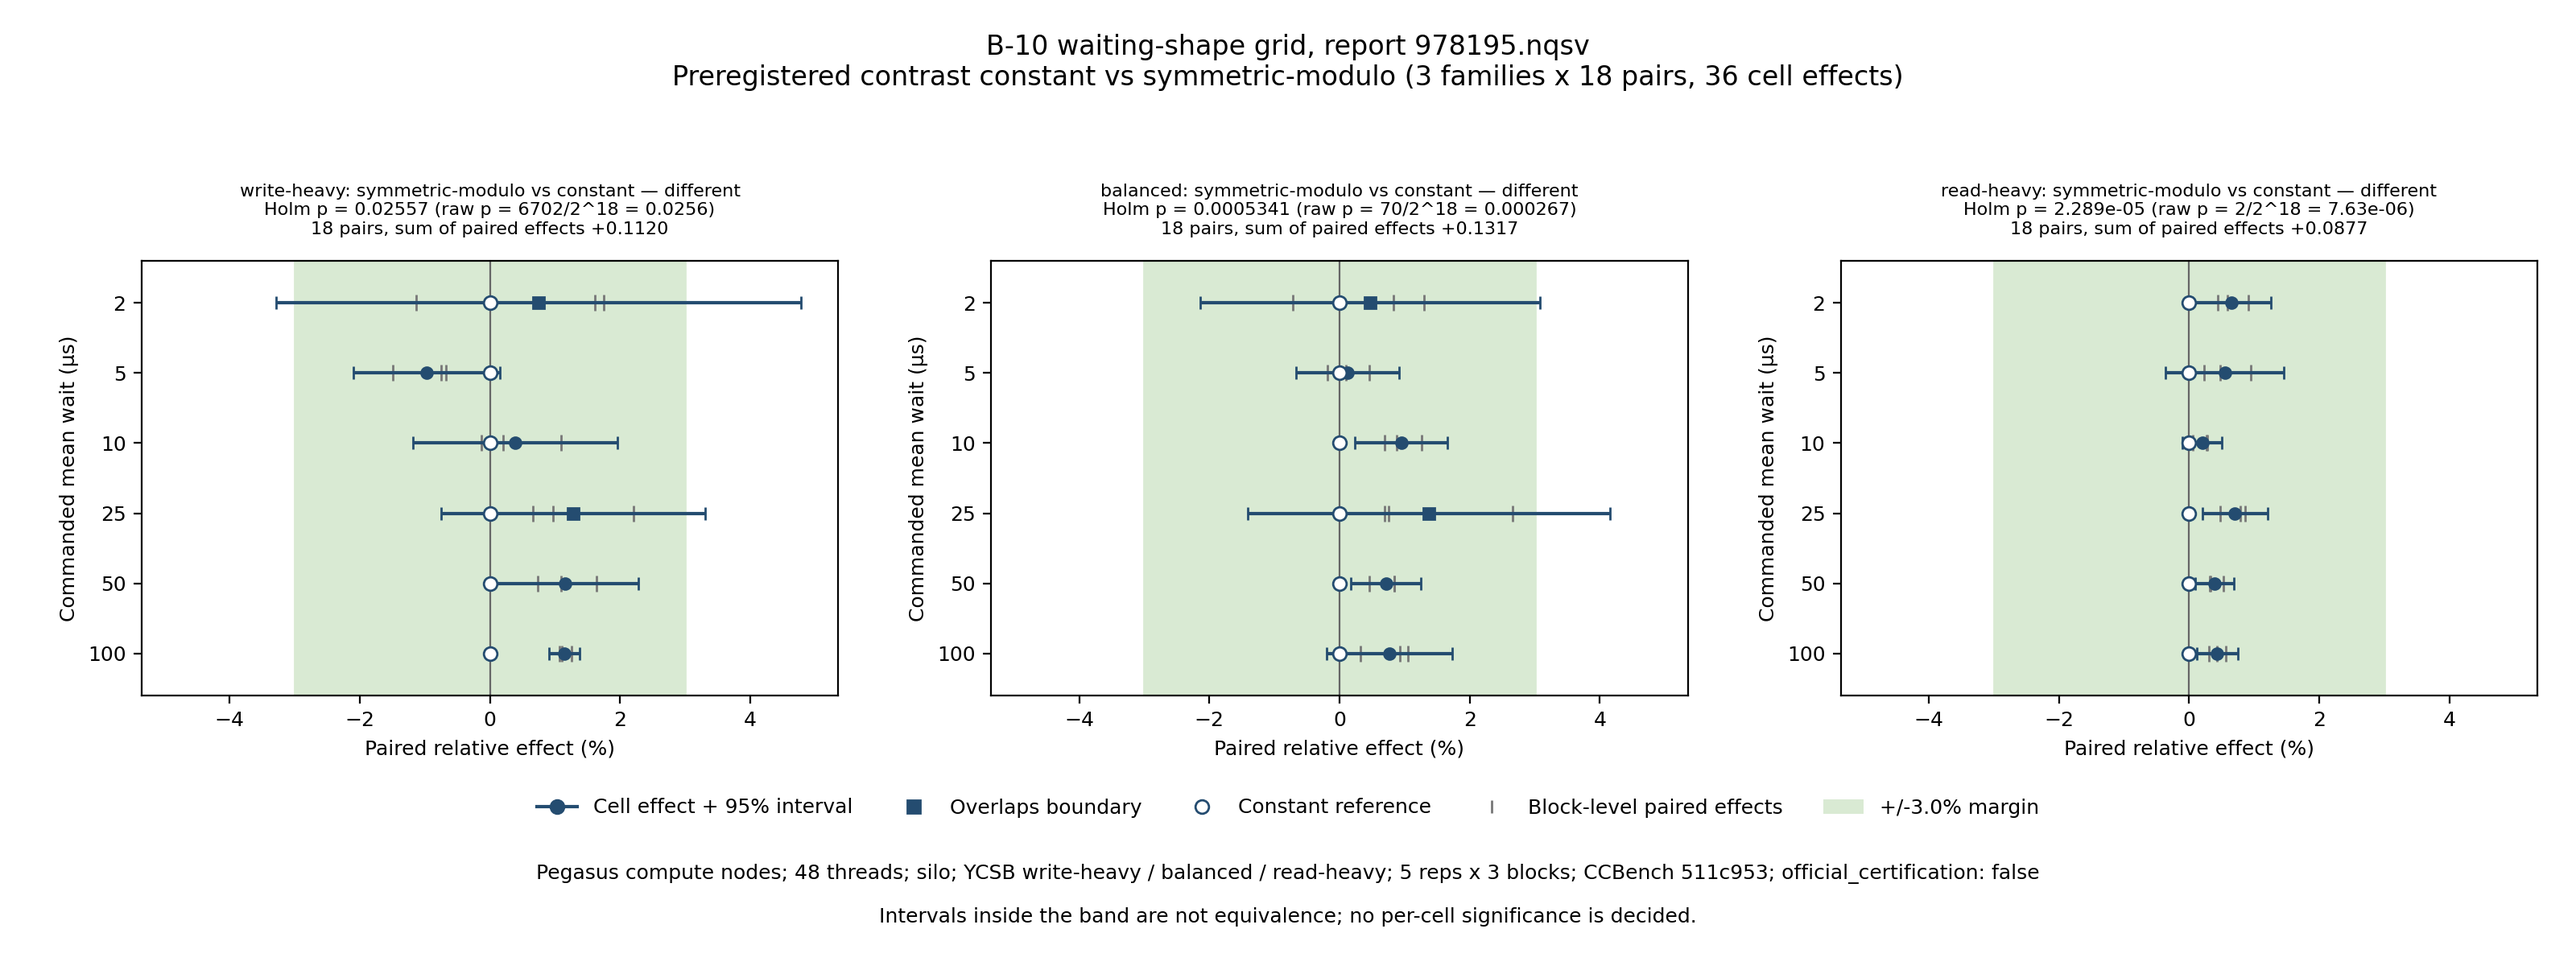
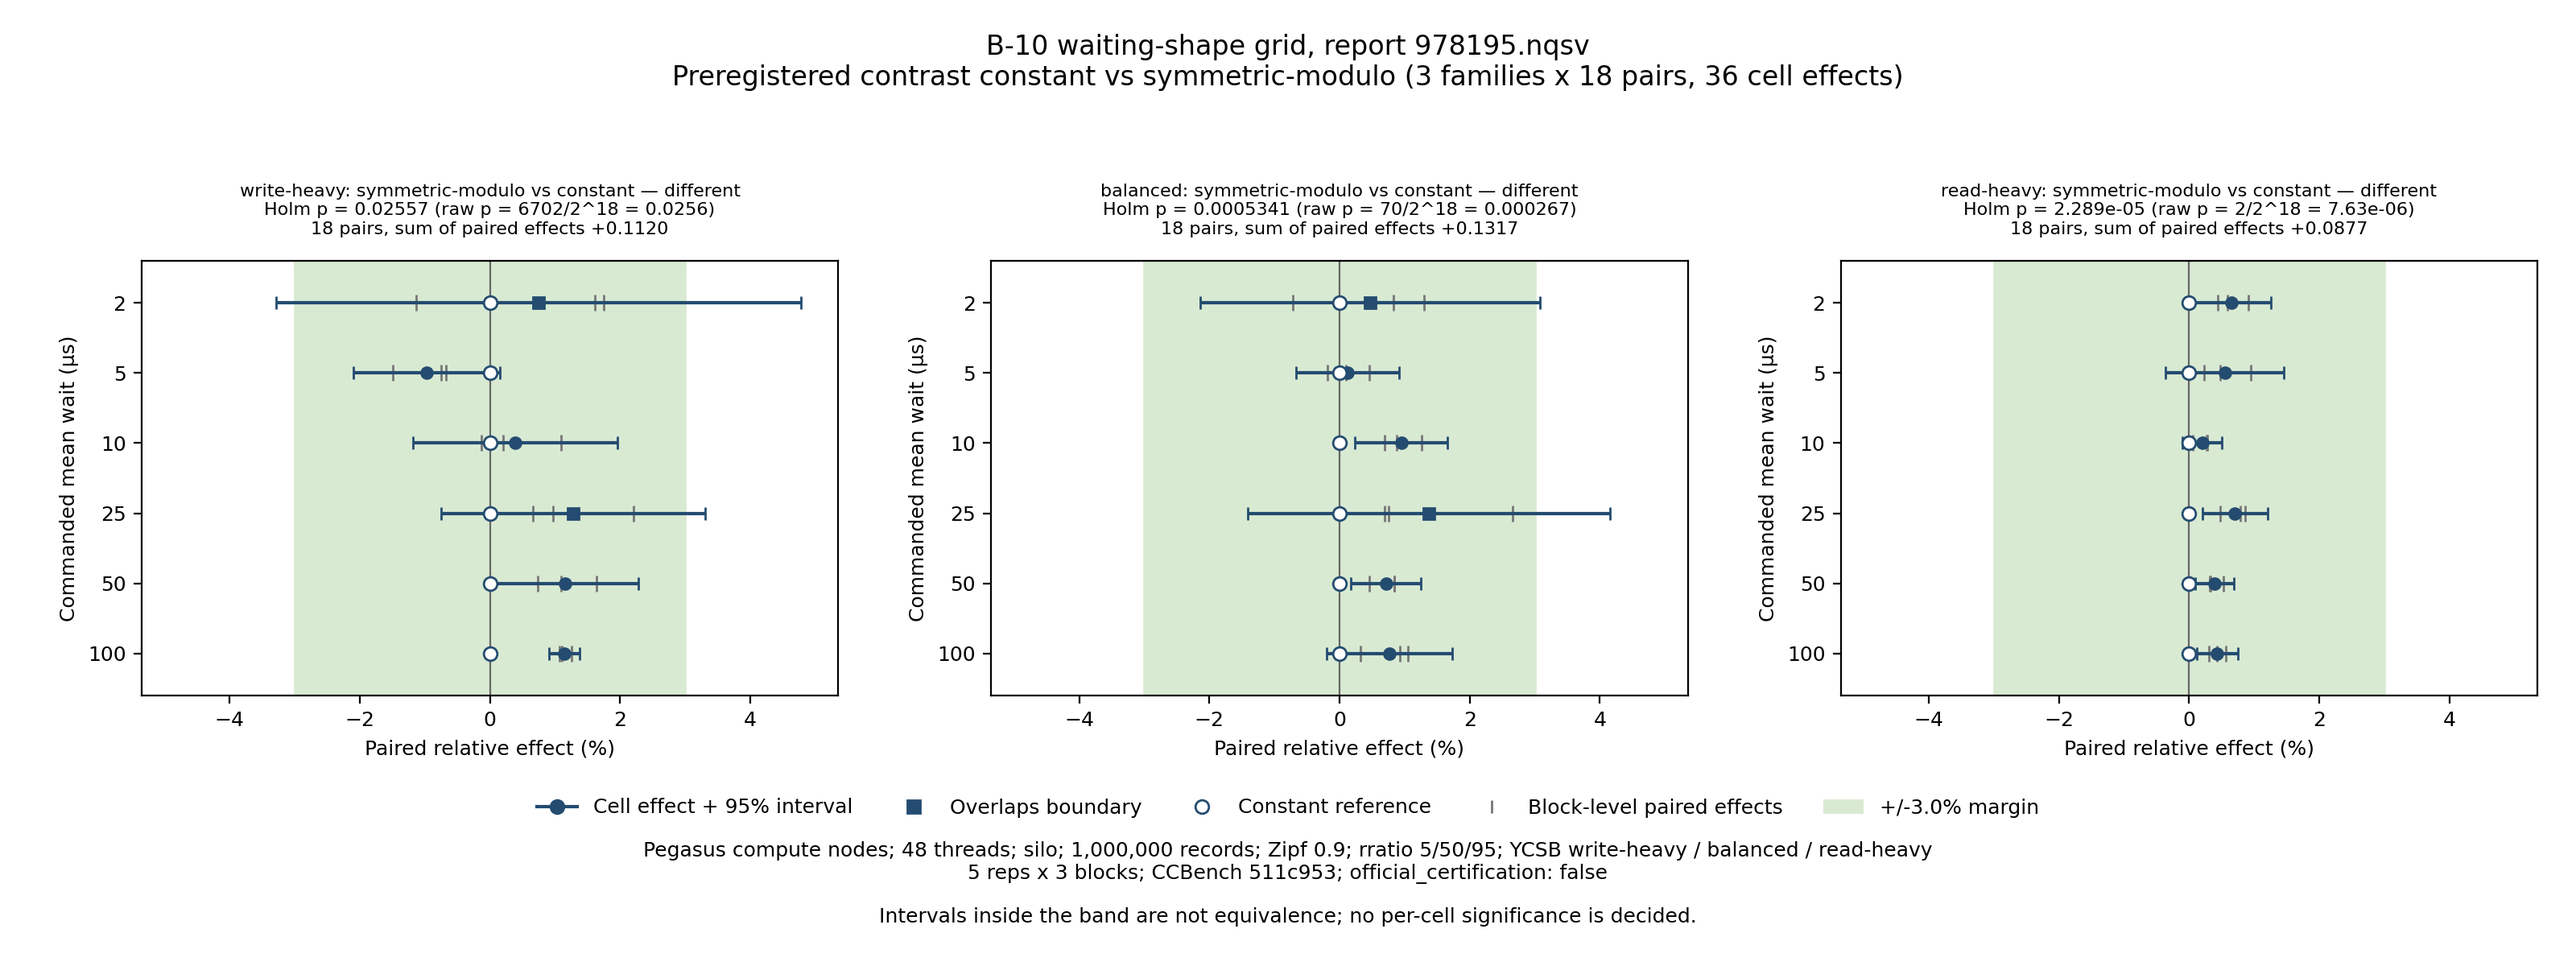
docs(paper-story): fig13 を fix1 後の生成器で再生成し (脚注と caption に records / Zipf skew / read ratio)、README の caption・SHA・条件と段 6 の docs 所見 (A-1 / B-3、A-5) を反映する
- `docs/paper-story/figures/fig13_b10_waiting_grid_forest.{png,pdf,provenance.json}`: login で再生成 (rc=0、PNG は fix 子の probe と bit 一致)。
  provenance の `measurement_conditions` に records 1,000,000 / zipf_skew 0.9 / rratios / rmw / max_ope / extime_s が加わり、caption の `Conditions:` 文が変わった。
- `docs/paper-story/figures/README.md` fig13 節: 英文 caption と着地 bytes の SHA-256 3 行を更新、日本語キャプションの条件にレコード数・skew・read ratio・rmw・max operations・1 rep 秒数を追加、
  §6 の項に測定条件の出所を明記、拒否条件に較正・workload 条件の不一致を追加。A-1 / B-3: 「report .md の照合」を「Holm 3 行の値 + cell effects 36 行という行数」に正確化。
- `tools/plotting/README.md`: A-5 に従い fig13 節を用途・command・入力・出力・fig13 節への参照に縮約 (拒否条件・固定文の重複記載を除く)。

AI-Agent: product=claude; model=claude-opus-5-1m; reasoning=xhigh; role=author; scope=docs
AI-Agent: product=claude; model=claude-opus-5-1m; reasoning=xhigh; role=manager; scope=wave

Changed region(s): [[0.2188, 0.8633, 0.7812, 0.925]]

diff --git a/docs/paper-story/figures/README.md b/docs/paper-story/figures/README.md
@@ -1618,9 +1618,10 @@ provenance の `caption_source.sha256` と稿の現物の一致、caption の本
   `submissions/23409962b76be959bb523a0cd5a31bc1/job-attempts/978195.nqsv/job-result.json` (job 結果、SHA-256 `d5d4a0ee…`、`driver_rc` 0)。生成器は両 file の SHA-256 を定数で持ち、request / nonce / phase / commit が provenance JSON の `submission` と一致することを要求する。
 - 再計算と照合 (生成器は判定を作らない): 135 record の `median_tps` から 54 対の対相対効果を block-major / μ-minor の順に組み立て `judgement.families[].differences` と一致、Holm p を昇順から再計算して一致、raw p × 2^18 が整数、
   18 cell の効果 (3 block の平均) と区間 (± 4.302652729911275 × 標本 sd / √3) を再計算して一致、等価域 ±3.0% との関係を区間の位置から再分類して `equivalence_relation` と一致、`constant` 18 cell が 0 / [0, 0]、
-  全 135 record が `correctness_certified` / 非 `missing` / 非 `unstable`、登録 108 cell の曝露 (backoff 呼び出し ≥ 10,000)。report .md の Holm 3 行・cell effects 36 行との照合。**raw p 自体 (全 2^18 列挙) は再計算しない** (report の仕事)。
+  全 135 record が `correctness_certified` / 非 `missing` / 非 `unstable`、登録 108 cell の曝露 (backoff 呼び出し ≥ 10,000)。report .md については Holm 3 行の値 (outcome / 対 / raw p / Holm p の丸め) の照合と、cell effects 節が 36 行あるという行数の照合だけを行う
+  (cell の値は report .md でなく provenance JSON 側で 135 record から全件再計算する)。**raw p 自体 (全 2^18 列挙) は再計算しない** (report の仕事)。
 - 拒否条件: SHA-256 不一致 (tracked 2 file、外部 2 file)、schema / alpha / spec SHA / 格子 / 族構成 / 受領証 identity の不一致、族数 ≠ 3、対 ≠ 18、`outcome` ≠ `different`、`status` ≠ `testable`、Holm p > α、対差の順序または値の不一致、raw p が 2^18 分母の分数でない、
-  Holm 再計算の不一致、cell 数 ≠ 36、効果 / 区間 / 等価域関係の不一致、`constant` cell が 0 でない、record 数 ≠ 135、median と 5 rep の不一致、未認証 / missing / unstable の record、登録 cell の曝露不足、`official_certification` が `true`、caption_source (稿) の不在。いずれでも成果物を出さない。
+  Holm 再計算の不一致、cell 数 ≠ 36、効果 / 区間 / 等価域関係の不一致、`constant` cell が 0 でない、record 数 ≠ 135、median と 5 rep の不一致、未認証 / missing / unstable の record、登録 cell の曝露不足、`official_certification` が `true`、較正 (records / threads / env) と workload 条件 (skew / rratio / rmw / max_ope / extime) の定数不一致、caption_source (稿) の不在。いずれでも成果物を出さない。
 - **caption_source:** provenance の `tracked_inputs` に `kind: "caption_source"` として稿 `docs/paper-story/results/2026-09-20-b10-waiting-grid-formal.md` の path と SHA-256 を記録する (`authority_scope` = 限定・条件の言い方の出所であって、測定値・判定の一次権威ではない)。
   稿は provenance の SHA-256 を持たない (F36 の自己参照回避)。稿は凍結物なので着地後に変わらない。
 
@@ -1648,7 +1649,7 @@ provenance の値から作り直した artist / caption との一致、tracked J
 - §2: 反復の不確かさは cell の 95% paired-block 区間 (3 block、df 2) で描き、区間の材料 (3 block の対相対効果) も点で見せる。
 - §3: 比較対象 `constant` は 0 の縦線 + 各行の空丸 (参照 cell) として、主系列と同じ軸上に置く。
 - §5: 図中ラベルは `constant` / `symmetric-modulo` / workload 名 / μ と判定名だけ。展開は caption で 1 回。
-- §6: provenance に入力の path と SHA-256・測定条件・主要数値 (3 族の p、36 cell の効果と区間、summary)・caption・再現 argv。
+- §6: provenance に入力の path と SHA-256・測定条件 (スレッド数 48、レコード数 1,000,000、Zipf skew 0.9、read ratio、rmw、max operations、1 rep の秒数、env = Pegasus 計算ノード。report provenance JSON の `calibration` と `preregistration.spec.workloads` / `spec.execution` から読み、定数と一致を要求する)・主要数値 (3 族の p、36 cell の効果と区間、summary)・caption・再現 argv。測定条件は図の脚注と caption の `Conditions:` 文にも出す (段 6 review B の must-fix で追加)。
 - §7: login で生成。§8: matplotlib + numpy のみ。§9: 保存前の renderer-backed layout check (axes ちょうど 3、text の重なり・逸脱・隣 panel 侵入で 3 成果物を 1 つも出さない)。
 - §10: fixture は実寸 (135 record、36 cell、3 族、report .md の Holm 3 行 + cell 36 行) で本物の Figure を検査へ通す。実データで実走して 3 成果物を確かめた (下の proof chain)。
 
@@ -1663,14 +1664,14 @@ provenance の値から作り直した artist / caption との一致、tracked J
 > 36 cell の区間は等価域の内側 32・境界を跨ぐ 4 (write-heavy μ 2・μ 25、balanced μ 2・μ 25)・外側 0、判定不能 0。点推定が負なのは write-heavy μ 5 の 1 cell (−0.97%、区間は 0 を含む)。
 > 区間が帯の内側にあることは区間の位置の分類名であって等価性の成立ではなく、等価性検定は行っていない。cell ごとの有意差は判定しない (検定は 3 族の族水準だけ)。`different` は protocol の出力であって成否の宣告ではない。機序は述べない。
 > 静的右 tail の 2 cohort (fig8 / fig8b) と合成・比較しない。`official_certification` は `false` で、この性能値は variant 採用の根拠にならない。正しさは trace 有効ビルドの別走行 (135 / 135 cell certified) で、性能の認証ではない。
-> 条件: Pegasus 計算ノード、48 スレッド、silo、YCSB 3 workload、各 cell 5 rep × 3 block、CCBench pin `511c953`、3 workload は別 job・別日・別 driver 版で workload 間の絶対 throughput は比べない。
+> 条件: Pegasus 計算ノード、48 スレッド、silo、レコード数 1,000,000、Zipf skew 0.9、read ratio 5 / 50 / 95 (write-heavy / balanced / read-heavy)、read-modify-write 無し、max operations 10、1 rep 3 秒、各 cell 5 rep × 3 block、CCBench pin `511c953`、3 workload は別 job・別日・別 driver 版で workload 間の絶対 throughput は比べない。
 
 英文の caption 正文は provenance JSON の `caption` と同一文字列であり、`orchestrator/tests/test_plot_b10_waiting_grid_forest.py` が本 README への収録と生成器の決定的な組み立てとの一致を検査する。
 値 (3 族の p / 対 / 和の符号、36 cell の集計、境界を跨ぐ 4 cell、負の点推定、条件、request、commit、pin) は生成器が provenance JSON から書式化し、限定の固定文 8 文
 (族の outcome は事前登録手続きの分類名で研究判定ではない / 帯の内側は等価性ではなく等価性検定はしていない / cell ごとの有意差は判定せず検定は族水準 3 つだけ / 右 tail cohort と pool も比較もしない /
 `official_certification` false・採用根拠にしない / この 1 contrast に限り一般・`binary`・用量反応・直交切り分けを言わない / 正しさは別走行で性能認証ではない / 3 workload は別 job・別日・別 driver 版、絶対 throughput を比べず機序を言わない) を逐語で含む。
 
-> Figure 13. B-10 waiting-shape grid, preregistered contrast constant vs symmetric-modulo. write-heavy: different, raw p = 6702/2^18 = 0.02556610107421875, Holm p = 0.02556610107421875, 18 pairs, sum of paired effects +0.11202543669460518 (symmetric-modulo higher); balanced: different, raw p = 70/2^18 = 0.00026702880859375, Holm p = 0.0005340576171875, 18 pairs, sum of paired effects +0.13167898485090257 (symmetric-modulo higher); read-heavy: different, raw p = 2/2^18 = 7.62939453125e-06, Holm p = 2.288818359375e-05, 18 pairs, sum of paired effects +0.087727340019642996 (symmetric-modulo higher). Cell effects and 95% paired-block intervals: 36 estimable, inside 32, overlaps 4, outside 0, indeterminate 0; 1 negative point estimates and 8 positive interval lower bounds. Boundary overlaps: write-heavy mu 2 and 25, balanced mu 2 and 25. Constant cells are constructional references at zero with intervals [0, 0]; gray ticks show the three block-level paired effects. Conditions: Pegasus compute nodes, 48 threads, silo, YCSB write-heavy / balanced / read-heavy, commanded mean wait mu 2, 5, 10, 25, 50, 100 us, 5 reps x 3 blocks, CCBench pin 511c953, report request 978195.nqsv, preregistration commit 77b33e37d, source commit 2a338449b. Each family's outcome is the preregistered procedure's classification and is not a research verdict. Intervals lying inside the +/-3.0% margin are reported as the position of the interval and are not a finding of equivalence; no equivalence test was performed. Per-cell intervals are descriptive and no per-cell significance decision is made; the only tests are the three family-level permutation tests with Holm adjustment. The static right-tail cohorts (separate preregistration, grid and driver) are neither pooled nor compared with this grid. official_certification is false; these performance values are not a basis for adopting a variant. Direction and effect sizes are stated for this one contrast only; nothing is claimed about waiting-shape effects in general, about binary, about a dose response of dispersion, or about a general separation of waiting shape from waiting amount. Correctness is recorded from separate trace-enabled runs (135 of 135 cells certified) and is not a performance certification. The three workloads ran as separate jobs on different days and driver versions; absolute throughput is not compared across workloads, and no mechanism is claimed for the direction.
+> Figure 13. B-10 waiting-shape grid, preregistered contrast constant vs symmetric-modulo. write-heavy: different, raw p = 6702/2^18 = 0.02556610107421875, Holm p = 0.02556610107421875, 18 pairs, sum of paired effects +0.11202543669460518 (symmetric-modulo higher); balanced: different, raw p = 70/2^18 = 0.00026702880859375, Holm p = 0.0005340576171875, 18 pairs, sum of paired effects +0.13167898485090257 (symmetric-modulo higher); read-heavy: different, raw p = 2/2^18 = 7.62939453125e-06, Holm p = 2.288818359375e-05, 18 pairs, sum of paired effects +0.087727340019642996 (symmetric-modulo higher). Cell effects and 95% paired-block intervals: 36 estimable, inside 32, overlaps 4, outside 0, indeterminate 0; 1 negative point estimates and 8 positive interval lower bounds. Boundary overlaps: write-heavy mu 2 and 25, balanced mu 2 and 25. Constant cells are constructional references at zero with intervals [0, 0]; gray ticks show the three block-level paired effects. Conditions: Pegasus compute nodes, 48 threads, silo, 1,000,000 records, Zipf skew 0.9, read ratio 5 / 50 / 95 (write-heavy / balanced / read-heavy), read-modify-write disabled, max operations 10, 3 s per repetition, YCSB write-heavy / balanced / read-heavy, commanded mean wait mu 2, 5, 10, 25, 50, 100 us, 5 reps x 3 blocks, CCBench pin 511c953, report request 978195.nqsv, preregistration commit 77b33e37d, source commit 2a338449b. Each family's outcome is the preregistered procedure's classification and is not a research verdict. Intervals lying inside the +/-3.0% margin are reported as the position of the interval and are not a finding of equivalence; no equivalence test was performed. Per-cell intervals are descriptive and no per-cell significance decision is made; the only tests are the three family-level permutation tests with Holm adjustment. The static right-tail cohorts (separate preregistration, grid and driver) are neither pooled nor compared with this grid. official_certification is false; these performance values are not a basis for adopting a variant. Direction and effect sizes are stated for this one contrast only; nothing is claimed about waiting-shape effects in general, about binary, about a dose response of dispersion, or about a general separation of waiting shape from waiting amount. Correctness is recorded from separate trace-enabled runs (135 of 135 cells certified) and is not a performance certification. The three workloads ran as separate jobs on different days and driver versions; absolute throughput is not compared across workloads, and no mechanism is claimed for the direction.
 
 ## proof chain
 
@@ -1693,9 +1694,9 @@ provenance の値から作り直した artist / caption との一致、tracked J
 次の 3 行が着地 bytes の正本である。`orchestrator/tests/test_plot_b10_waiting_grid_forest.py` の着地 test が、この 3 行の値と
 着地 file の現物 SHA-256 の一致を検査する (行の形は `- \`<basename>\` SHA-256: \`<64 hex>\`` で固定)。
 
[6 lines of base64/hex data omitted]
 
[1 lines of base64/hex data omitted]
 (稿は凍結物で、着地後に変わらない)。
